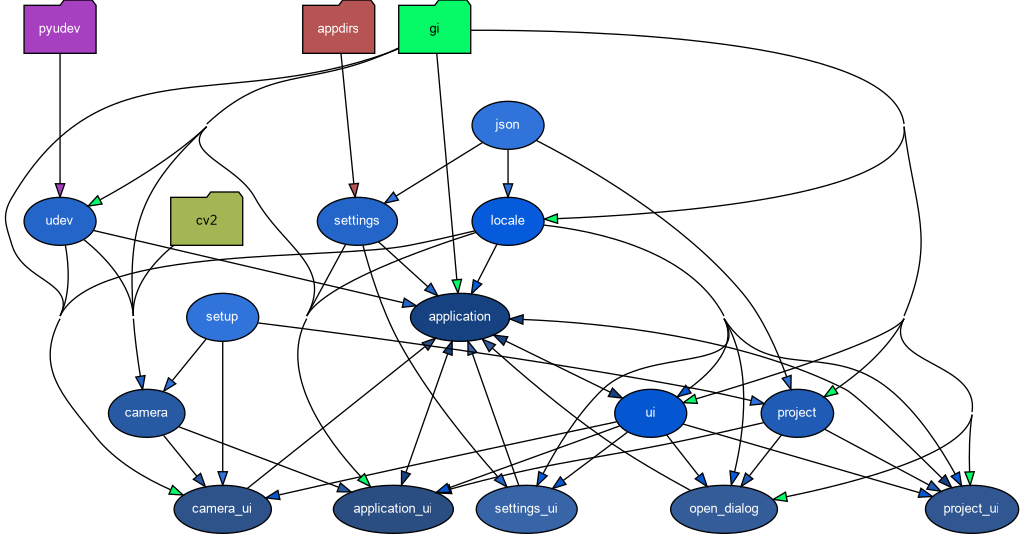
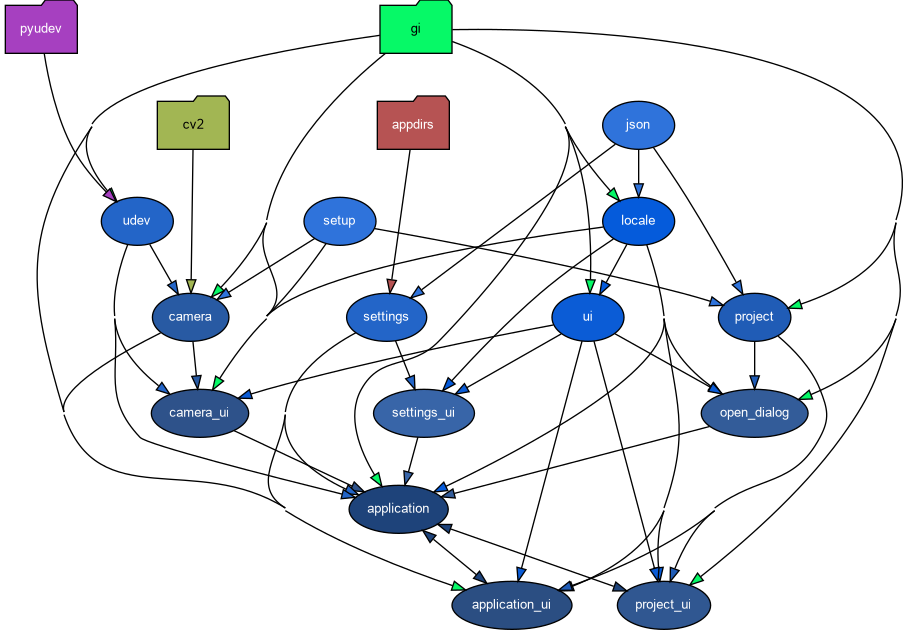
latest dev

diff --git a/vhdscan/lib/ui.py b/vhdscan/lib/ui.py
@@ -1,5 +1,5 @@
 from gi.repository import Gtk, Gdk, GObject, Pango
-from . import application, locale
+from . import locale
 from os.path import realpath
 from .locale import _
 
@@ -86,7 +86,6 @@ def warn(text, title):
 
 
 class UI:
-    stylesheets = {}
 
     def add_class(self, *args):
         add_class(self, *args)
@@ -96,9 +95,6 @@ class UI:
 
     def remove_class(self, *args):
         remove_class(self, *args)
-
-    def focus_widget(self, widget, event, target):
-        target.grab_focus()
 
 
 def pack_start(parent, children, expand=False, fill=True, padding=0):
@@ -304,13 +300,15 @@ class Radiogroup(GObject.Object):
 
 class Window(UI):
 
-    def __init__(self, name):
+    def __init__(self, name, quit=None):
         self._name = name
         self._builder = Gtk.Builder()
         self._builder.add_from_file("glade/" + name + ".glade")
         self._builder.connect_signals(self)
 
         locale.connect("change", self.update_translation)
+        if quit:
+            self.root.connect("destroy", quit)
 
         self.init()
 
@@ -351,10 +349,6 @@ class Window(UI):
     def result(self):
         return None
 
-    # handler
-    def quit(self, *args):
-        application.quit()
-
 
 class Dialog(Window):
 
@@ -377,25 +371,3 @@ class Dialog(Window):
 
     def respond_cancel(self, *args):
         self.root.response(Gtk.ResponseType.CANCEL)
-
-
-def add_stylesheet(path):
-    abspath = realpath(path)
-    css_provider = Gtk.CssProvider()
-    css_provider.load_from_path(abspath)
-    Gtk.StyleContext.add_provider_for_screen(
-        screen=Gdk.Screen.get_default(),
-        provider=css_provider,
-        priority=Gtk.STYLE_PROVIDER_PRIORITY_APPLICATION,
-    )
-    UI.stylesheets[abspath] = css_provider
-
-
-def remove_stylesheet(path):
-    abspath = realpath(path)
-    if abspath in UI.stylesheets:
-        css_provider = UI.stylesheets.pop(abspath)
-        Gtk.StyleContext.remove_provider_for_screen(
-            screen=Gdk.Screen.get_default(),
-            provider=css_provider,
-        )

diff --git a/vhdscan/lib/application.py b/vhdscan/lib/application.py
@@ -1,8 +1,8 @@
 import gi
 gi.require_version("Gtk", "3.0")
-from gi.repository import Gtk
+from gi.repository import Gtk, Gdk
 
-from . import locale, settings, udev, ui
+from . import locale, settings, udev
 
 from .camera_ui import Camera_UI
 from .application_ui import Application_UI
@@ -16,6 +16,31 @@ project_ui = None
 open_dialog = None
 camera_ui = None
 settings_ui = None
+stylesheets = {}
+
+
+def add_stylesheet(path):
+    global stylesheets
+    abspath = realpath(path)
+    css_provider = Gtk.CssProvider()
+    css_provider.load_from_path(abspath)
+    Gtk.StyleContext.add_provider_for_screen(
+        screen=Gdk.Screen.get_default(),
+        provider=css_provider,
+        priority=Gtk.STYLE_PROVIDER_PRIORITY_APPLICATION,
+    )
+    stylesheets[abspath] = css_provider
+
+
+def remove_stylesheet(path):
+    global stylesheets
+    abspath = realpath(path)
+    if abspath in stylesheets:
+        css_provider = stylesheets.pop(abspath)
+        Gtk.StyleContext.remove_provider_for_screen(
+            screen=Gdk.Screen.get_default(),
+            provider=css_provider,
+        )
 
 
 def quit(*args):
@@ -30,10 +55,10 @@ def quit(*args):
 def run(path):
     settings.load()
 
-    ui.add_stylesheet("css/vhdscan.css")
+    add_stylesheet("css/vhdscan.css")
 
     global application_ui, project_ui, open_dialog, camera_ui, settings_ui
-    application_ui = Application_UI("application")
+    application_ui = Application_UI("application", quit)
     project_ui = Project_UI("project")
     open_dialog = Open_Dialog()
     camera_ui = Camera_UI("camera")
@@ -41,8 +66,10 @@ def run(path):
 
     locale.load(settings.get("locale"))
     application_ui.show()
+
     if path:
         application_ui.open_project(path)
     else:
         application_ui.maybe_open_recent()
+
     Gtk.main()

diff --git a/vhdscan/lib/locale.py b/vhdscan/lib/locale.py
@@ -24,10 +24,10 @@ _signal = _Signal()
 
 def get_all():
     locales = [["en", "English (en)"]]
-    for json in glob("locale/*.json"):
-        data = json.read(json)
+    for path in glob("locale/*.json"):
+        data = json.read(path)
         if data:
-            iso_key = basename(json).rsplit('.', 1)[0]
+            iso_key = basename(path).rsplit('.', 1)[0]
             name = "{0} ({1})".format(data["name"], iso_key)
             locales.append([iso_key, name])
     locales.sort(key=lambda locale: locale[1])
